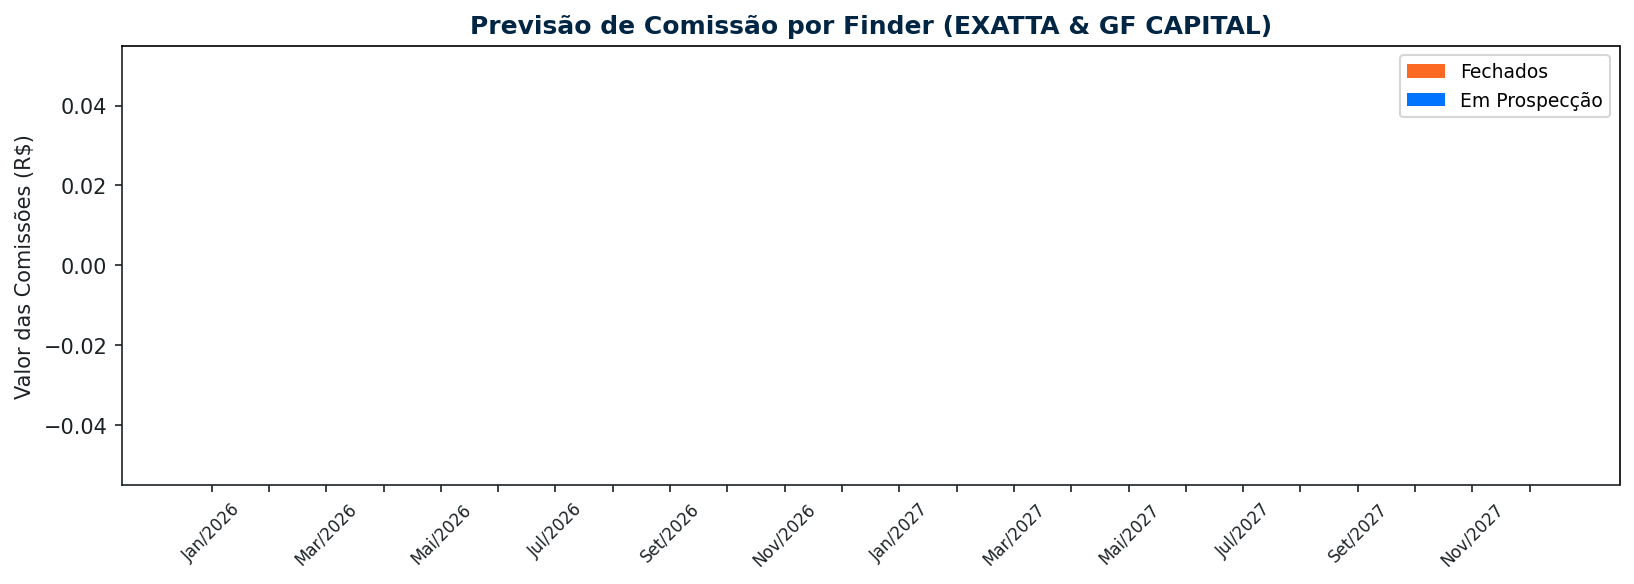
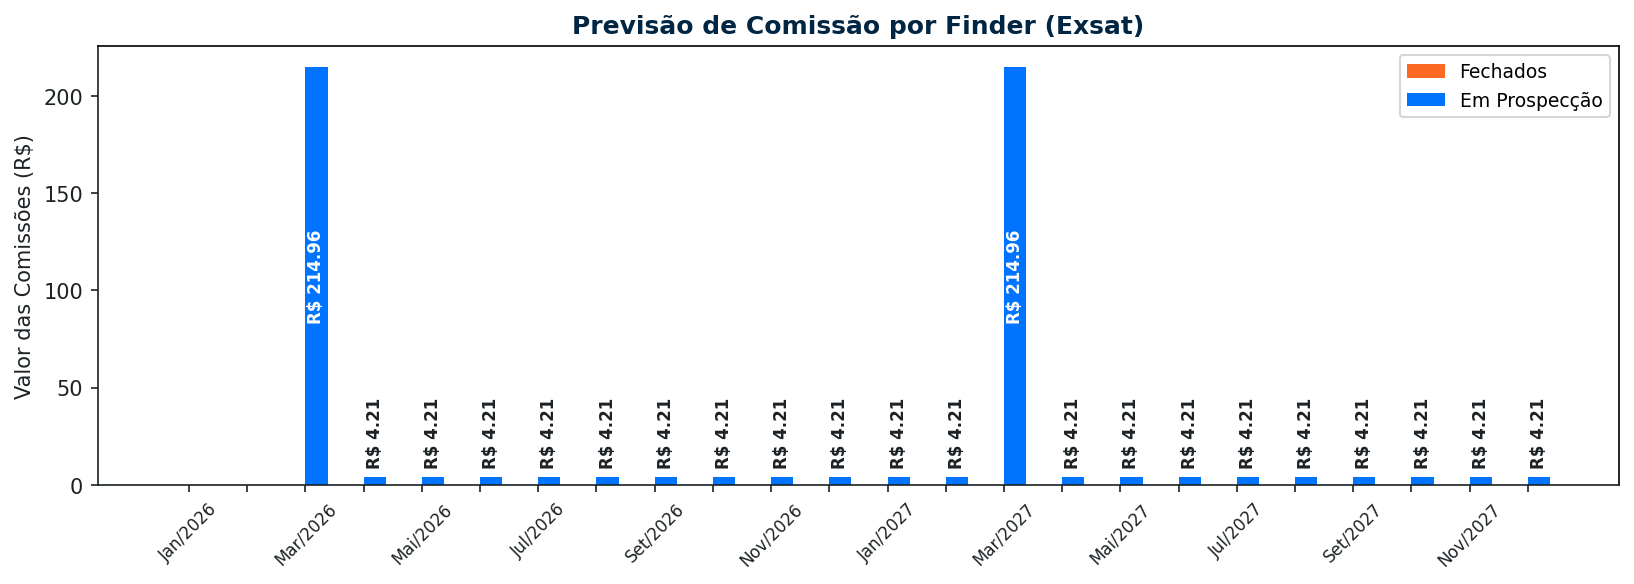
checkpoint do meu código antes de grandes mudanças na lógica do gráfico, mais especificamente na coluna de faturamento do segundo gráfico

diff --git a/charts/chart_distribuicao_parceiro.py b/charts/chart_distribuicao_parceiro.py
@@ -49,11 +49,16 @@ def gerar_distribuicao_parceiro(finder_name, assinatura, assinatura_fechados=0.0
         for i, mes in enumerate(meses):
             if mes in ["Mar/2026", "Mar/2027"]:
                 valores[i] = assinatura * 0.51
+                base_vals[i] = assinatura_fechados * 0.51
+            elif mes in ["Abr/2026", "Mai/2026", "Jun/2026",
+                "Jul/2026", "Ago/2026", "Set/2026", "Out/2026", "Nov/2026", "Dez/2026",
+                "Jan/2027", "Fev/2027", "Abr/2027", "Mai/2027", "Jun/2027",
+                "Jul/2027", "Ago/2027", "Set/2027", "Out/2027", "Nov/2027", "Dez/2027"]:
+                valores[i] = assinatura * 0.01
+                base_vals[i] = assinatura_fechados * 0.01
             else:
                 valores[i] = 0
-            # decaimento multiplicativo de 1% ao mês para a base
-            decay = (1 - 0.01) ** i
-            base_vals[i] = assinatura_fechados * 0.5 * decay
+                base_vals[i] = 0
 
     # === Gráfico (colunas clusterizadas por mês) ===
     fig, ax = plt.subplots(figsize=(11, 4))
